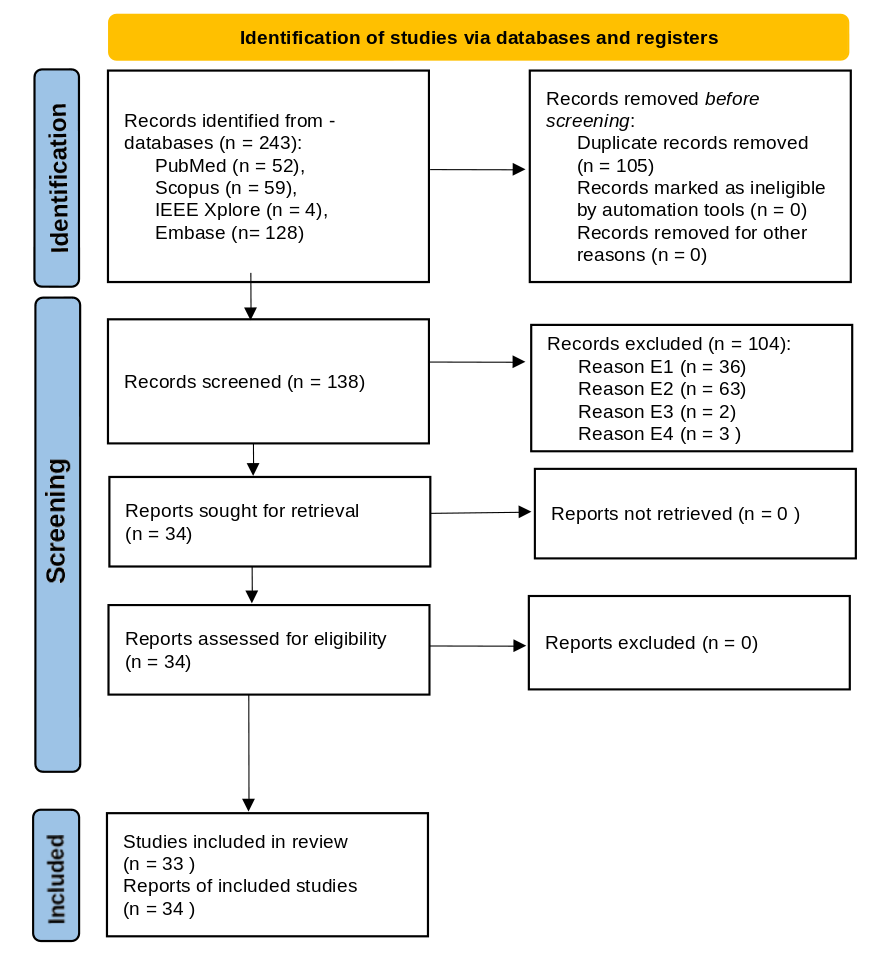
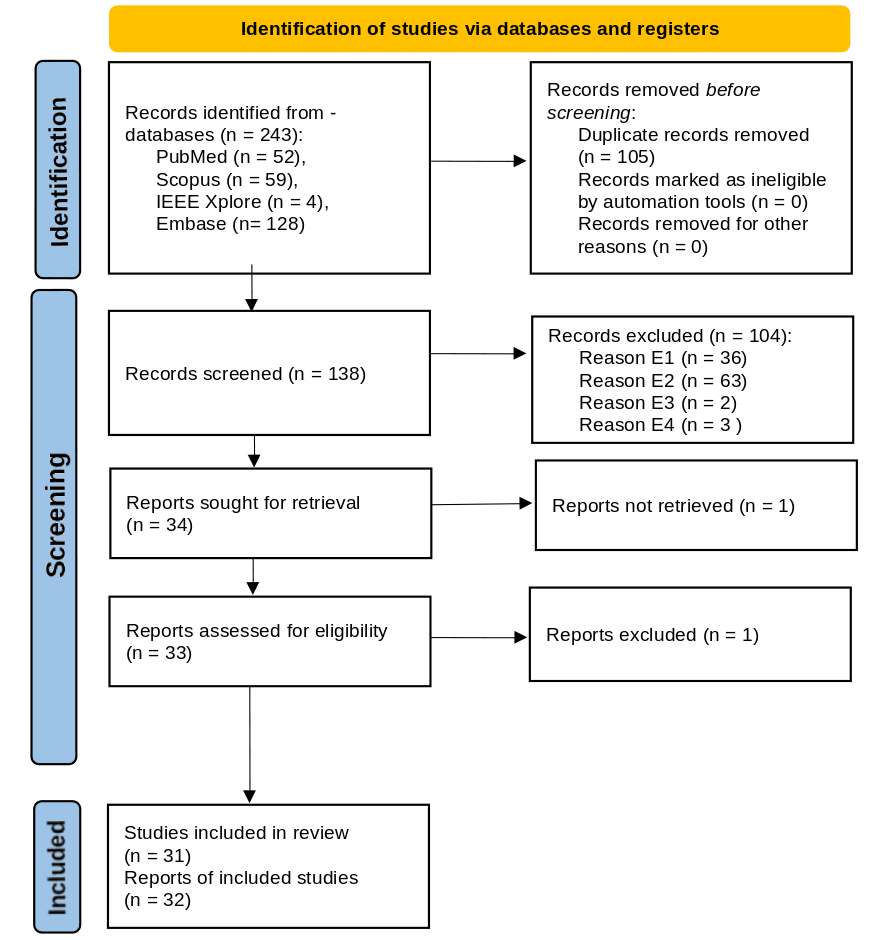
update flowchart.png and search_strings.md

Changed region(s): [[0.0306, 0.0, 0.9807, 1.0], [0.5823, 0.617, 0.9807, 0.7404]]

diff --git a/search/search_strings.md b/search/search_strings.md
@@ -154,9 +154,11 @@ OR "neuronal recordings")
 | IEEE Xplore | 4                 |
 | **Total**   | **243**           |
 
-Records after deduplication: 138  
-Records excluded at title/abstract screening: 105  
-Records included: 34  
-Full texts assessed for eligibility: 34  
-Full texts excluded: 0  
-Studies included: 34
+Records after deduplication: 138
+Records excluded at title/abstract screening: 104
+Records sought for retrieval: 34
+Records not retrieved: 1 (Zhang et al. 2024, doi: 10.3760/cma.j.cn112050-20231009-00108 - full text inaccessible; Chinese-language journal)
+Records assessed for eligibility: 32
+Records excluded after full-text assessment: 1 (Gamma suppression correlates with thalamic stimulation therapeutic response in intractable epilepsy - E1)
+Reports included: 32
+Studies included: 31
